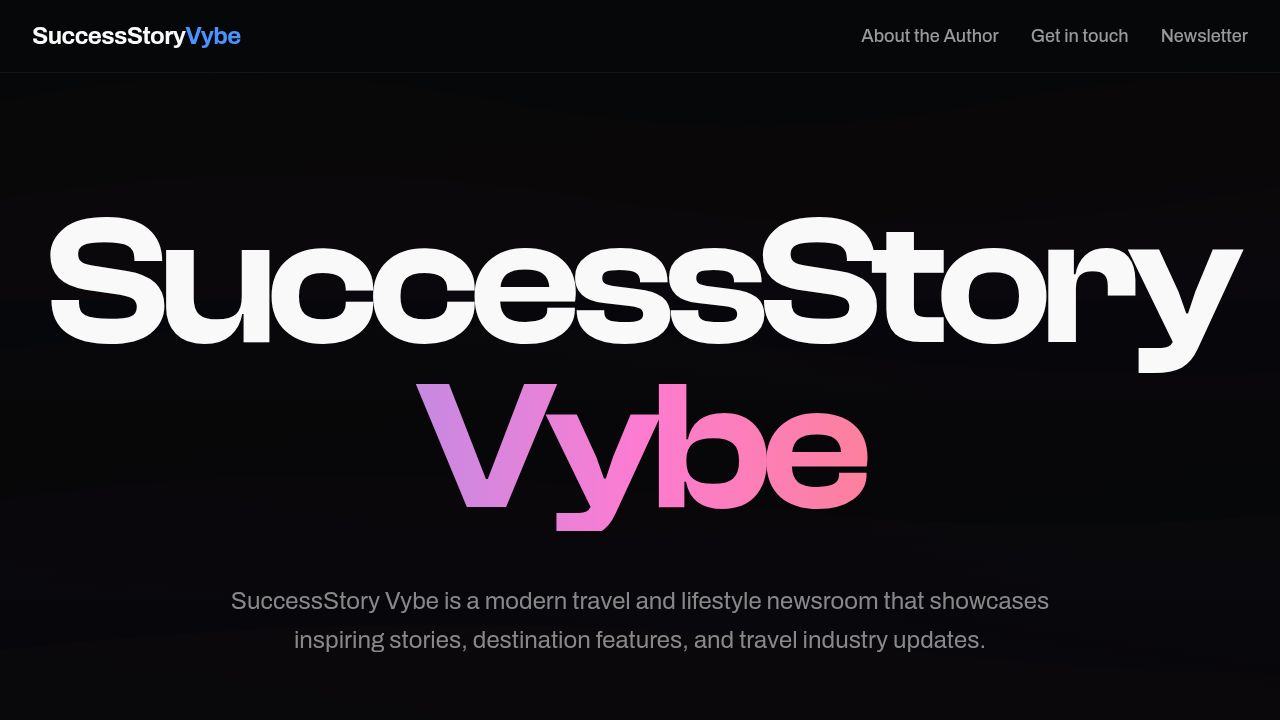
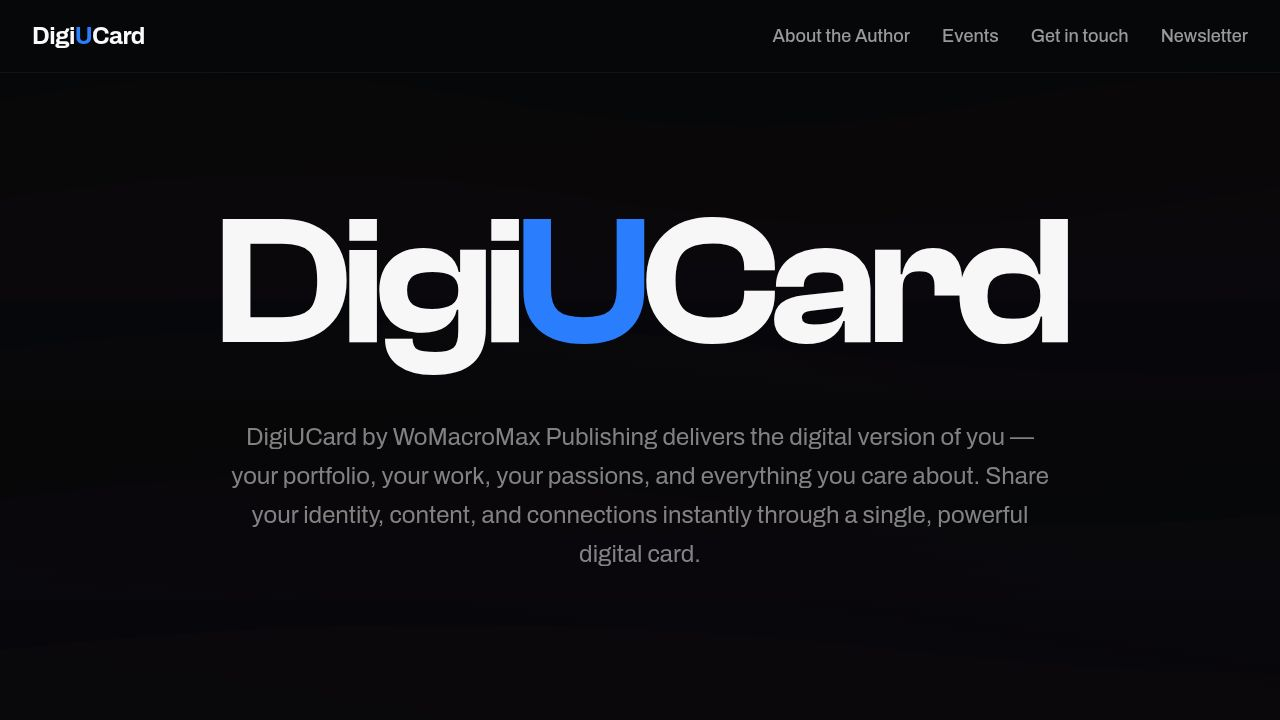
Update website metadata and descriptions to reflect new branding
Modify meta tags, Open Graph data, and page descriptions in index.html and home.tsx to align with the updated DigiUCard branding and messaging.

Replit-Commit-Author: Agent
Replit-Commit-Session-Id: 7a5fc6e0-70dd-47f0-be25-a62c607c99dc
Replit-Commit-Checkpoint-Type: full_checkpoint
Replit-Commit-Event-Id: 69cdd263-f6a3-4aed-aea5-4f262cfa299c
Replit-Commit-Screenshot-Url: https://storage.googleapis.com/screenshot-production-us-central1/597605ee-5db0-464a-8f86-99fe2bf2031e/7a5fc6e0-70dd-47f0-be25-a62c607c99dc/41PUOpZ
Replit-Helium-Checkpoint-Created: true

diff --git a/client/index.html b/client/index.html
@@ -3,8 +3,9 @@
   <head>
     <meta charset="UTF-8" />
     <meta name="viewport" content="width=device-width, initial-scale=1.0, maximum-scale=1" />
-    <title>DigiUCard - Travel & Lifestyle Stories</title>
-    <meta name="description" content="DigiUCard is a modern travel and lifestyle newsroom that showcases inspiring stories, destination features, and travel industry updates.">
+    <title>DigiUCard — Your Digital Identity, Portfolio & Everything You Care About</title>
+    <meta name="description" content="DigiUCard by WoMacroMax Publishing delivers the digital version of you — your portfolio, your work, your passions, and everything you care about. Share your identity, content, and connections instantly through a single, powerful digital card.">
+    <meta name="keywords" content="DigiUCard, Digital business card, Digital identity, Portfolio card, WoMacroMax Publishing, Shareable content hub, Personal branding, Digital portfolio, Contact card, Creator identity card, Modular digital identity">
     
     <!-- Fonts -->
     <link rel="preconnect" href="https://fonts.googleapis.com">
@@ -12,10 +13,13 @@
     <link href="https://fonts.googleapis.com/css2?family=Archivo:wght@300;400;500;600;700&family=Playfair+Display:wght@600;700;800&display=swap" rel="stylesheet">
     <link href="https://api.fontshare.com/v2/css?f[]=clash-display@200,300,400,500,600,700&display=swap" rel="stylesheet">
 
-    <!-- Open Graph -->
-    <meta property="og:title" content="DigiUCard - Travel & Lifestyle Stories">
-    <meta property="og:description" content="A modern travel and lifestyle newsroom featuring inspiring stories and destination features.">
+    <!-- Open Graph / Social -->
+    <meta property="og:title" content="DigiUCard — Your Digital Identity, Portfolio & Everything You Care About">
+    <meta property="og:description" content="DigiUCard by WoMacroMax Publishing delivers the digital version of you — your portfolio, your work, your passions, and everything you care about.">
     <meta property="og:type" content="website">
+    <meta name="twitter:card" content="summary_large_image">
+    <meta name="twitter:title" content="DigiUCard — Your Digital Identity, Portfolio & Everything You Care About">
+    <meta name="twitter:description" content="DigiUCard by WoMacroMax Publishing delivers the digital version of you — your portfolio, your work, your passions, and everything you care about.">
   </head>
   <body>
     <div id="root"></div>

diff --git a/client/src/pages/home.tsx b/client/src/pages/home.tsx
@@ -30,7 +30,7 @@ export default function Home() {
             transition={{ duration: 0.8, delay: 0.2, ease: "easeOut" }}
             className="text-muted-foreground text-lg md:text-2xl leading-relaxed max-w-[60ch] mx-auto"
           >
-            Digi<span className="text-blue-500">U</span>Card is a modern travel and lifestyle newsroom that showcases inspiring stories, destination features, and travel industry updates.
+            DigiUCard by WoMacroMax Publishing delivers the digital version of you — your portfolio, your work, your passions, and everything you care about. Share your identity, content, and connections instantly through a single, powerful digital card.
           </motion.p>
         </section>
 
